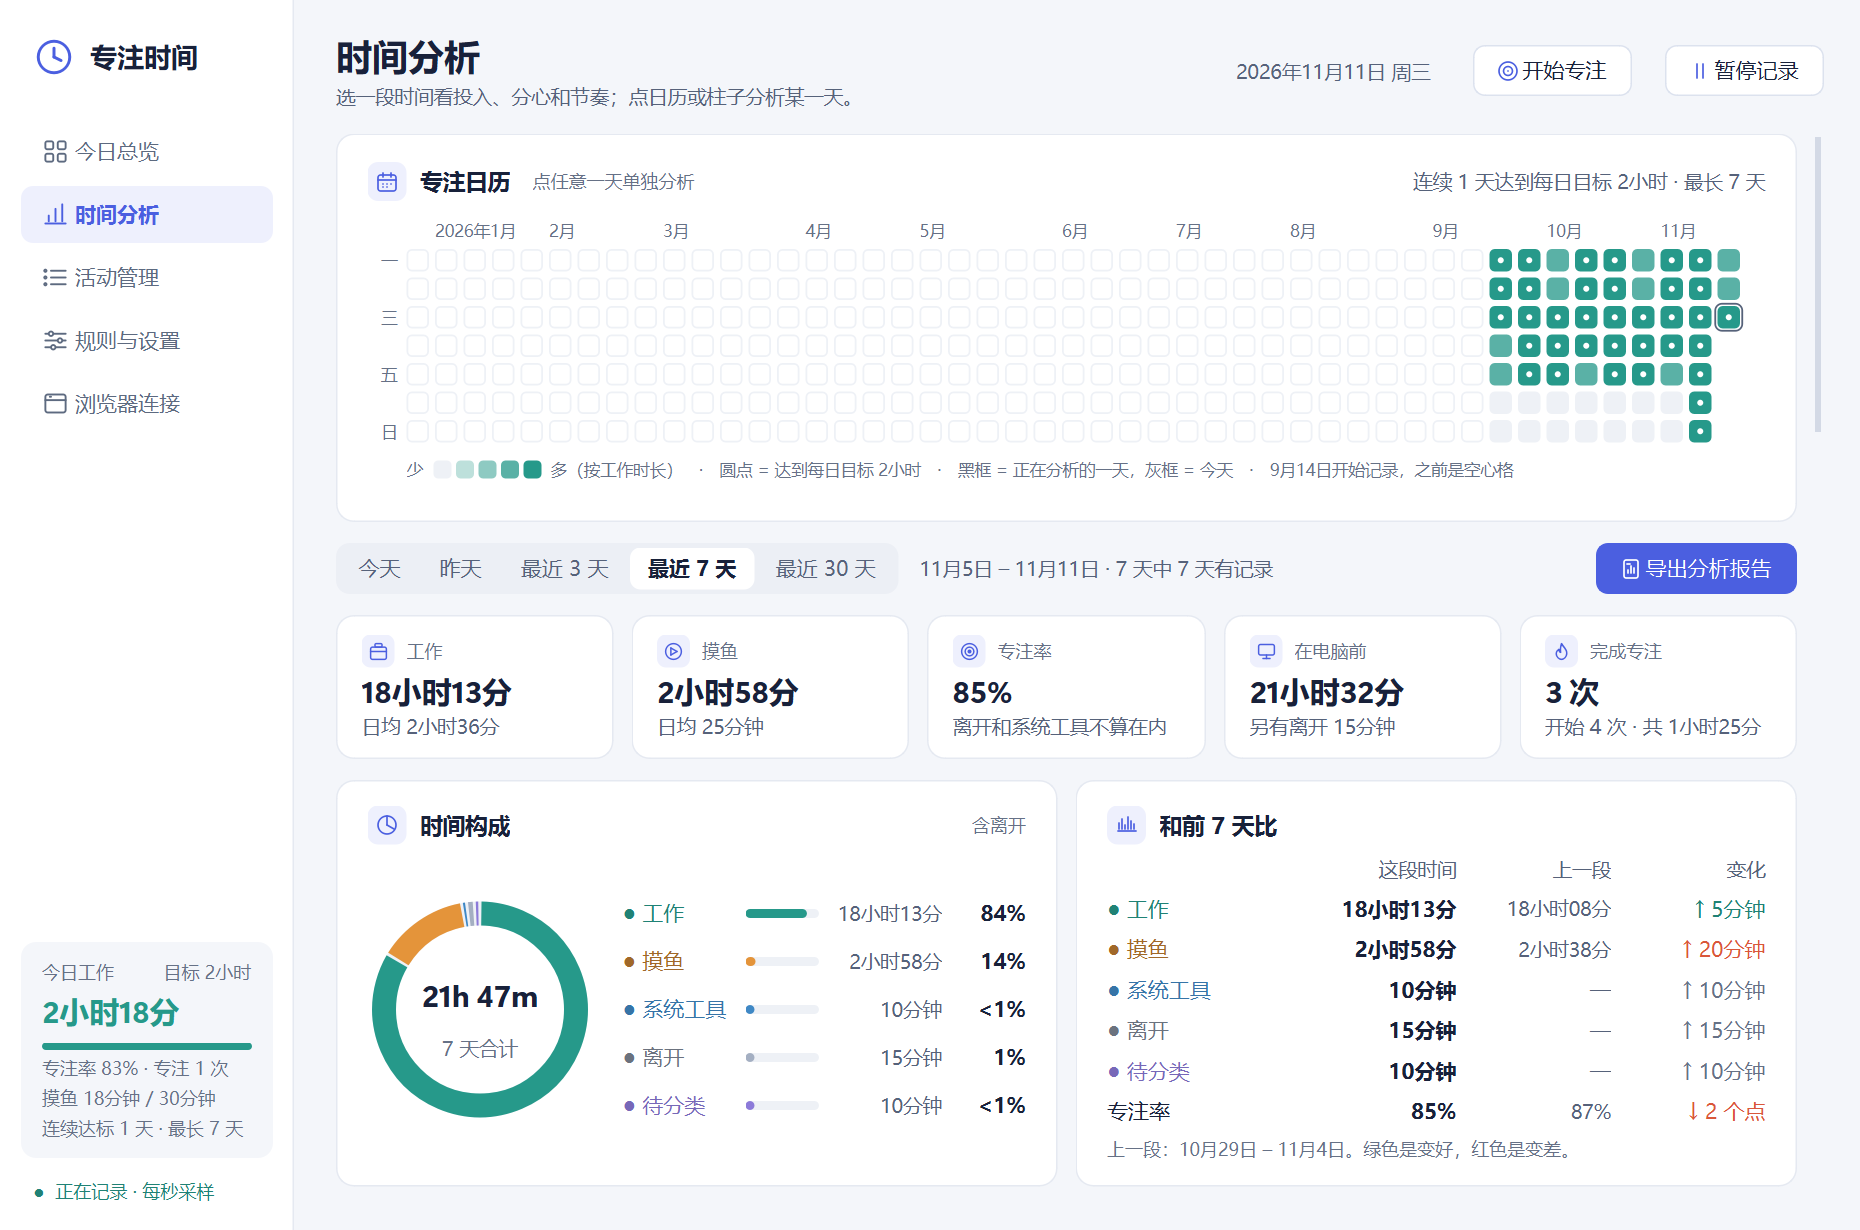
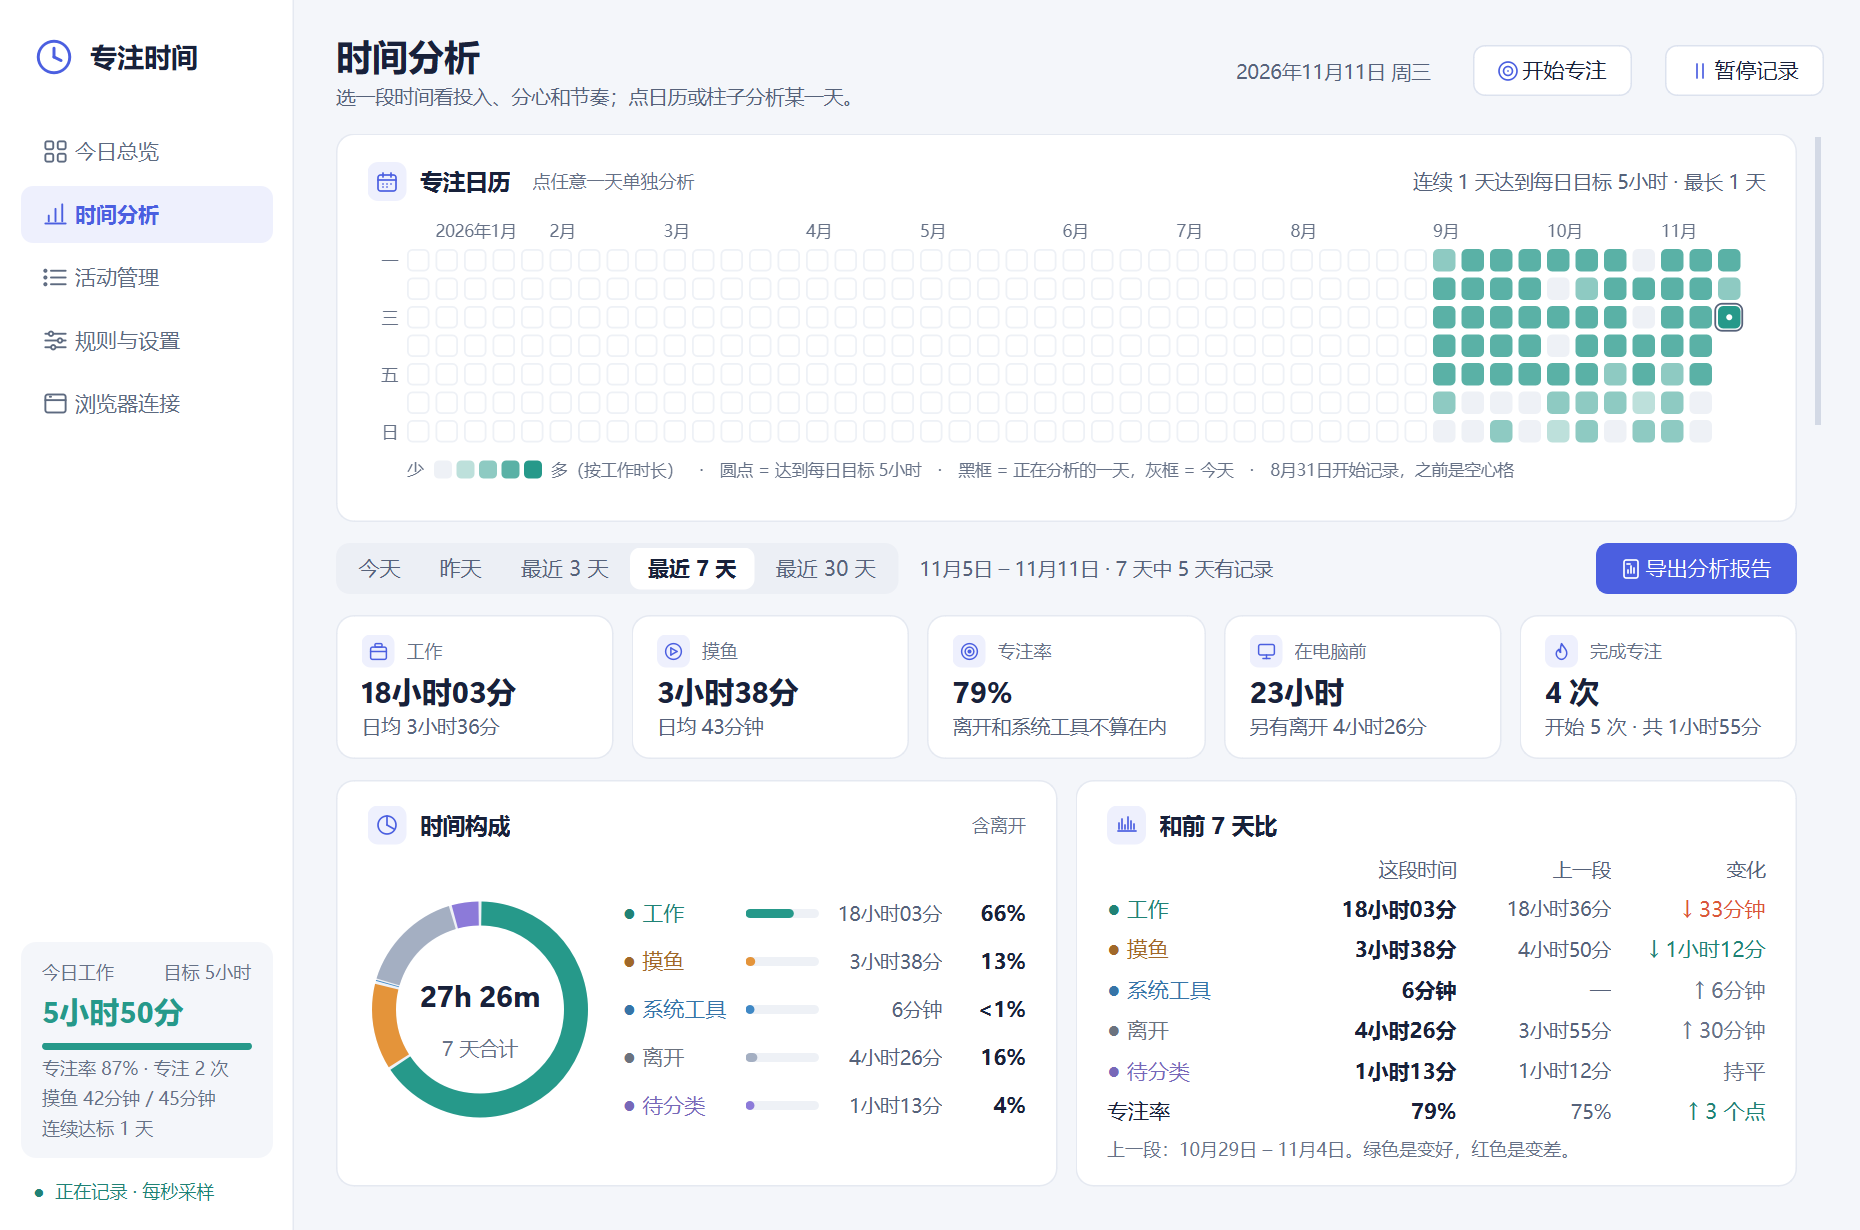
README 改为面向使用者的介绍，新增截图；设置页下拉框加宽
- README：下载与安装步骤、功能分节配图、隐私说明、常见问题，开发内容移到后面
- 截图换成示例数据的新界面（总览、提醒、时间分析、单日分析、专注、活动管理）
- “回来时补记”“每日总结”下拉框加宽，“离开 15 分钟以上”不再被截断

diff --git a/app/ui_qt.py b/app/ui_qt.py
@@ -699,13 +699,13 @@ class Shell(QMainWindow):
         self.reminder_spin = self.spin(15, 3600, c["reminder_seconds"], " 秒", 15, tip="停留在摸鱼网站或应用时，隔多久再提醒一次")
         self.sound_check = self.check("提醒时响一声", c["reminder_sound"])
         self.tray_hint_check = self.check("关闭窗口时提示仍在托盘记录", c["tray_hint"], "关闭主窗口后，在屏幕右下角弹一次系统通知")
-        self.summary_combo = QComboBox(); self.summary_combo.setFixedWidth(150)
+        self.summary_combo = QComboBox(); self.summary_combo.setFixedWidth(184)
         self.summary_combo.addItem("关闭", "off")
         for at in ("18:00", "20:00", "21:00", "22:00", "23:00"): self.summary_combo.addItem(f"每天 {at}", at)
         self.summary_combo.setCurrentIndex(max(0, self.summary_combo.findData(c["daily_summary"])))
         self.summary_combo.setToolTip("到点弹一次今天的小结：工作、摸鱼、目标完成情况和用得最多的程序")
         self.summary_combo.currentIndexChanged.connect(self.schedule_preferences)
-        self.return_combo = QComboBox(); self.return_combo.setFixedWidth(150)
+        self.return_combo = QComboBox(); self.return_combo.setFixedWidth(184)
         self.return_combo.addItem("不询问", 0)
         for minutes in (10, 15, 30, 60): self.return_combo.addItem(f"离开 {minutes} 分钟以上", minutes)
         self.return_combo.setCurrentIndex(max(0, self.return_combo.findData(c["return_prompt_minutes"])))

diff --git a/README.md b/README.md
@@ -1,29 +1,114 @@
+<div align="center">
+
 # 专注时间助手
 
-一个只在你自己电脑上运行的 Windows 计时工具：每秒看一眼你正在用的窗口，把时间分成**工作、摸鱼、系统工具、离开、待分类**，在你刷抖音、小红书、B站时温和地提醒一下，并帮你回看一天、一周是怎么过的。
+**电脑自动帮你记下：今天到底是在学习，还是在摸鱼。**
 
-![今日总览](docs/screenshots/overview.png)
+一个只在你自己电脑上运行的 Windows 小工具：每秒看一眼你正在用的窗口，把时间分成工作、摸鱼、系统工具、离开、待分类五类；刷抖音、小红书、B站太久时温柔地提醒一下；再帮你回看一天、一周是怎么过的。
 
-所有数据都留在本机，没有账号，不联网上传；不保存网址路径、页面标题、截图或按键。
+[![下载](https://img.shields.io/github/v/release/Toby-Qian/focus-time-assistant?label=%E4%B8%8B%E8%BD%BD&color=4B5FE0)](https://github.com/Toby-Qian/focus-time-assistant/releases/latest)
+![Windows 10 / 11](https://img.shields.io/badge/Windows-10%20%2F%2011-26998A)
+![数据只在本机](https://img.shields.io/badge/%E6%95%B0%E6%8D%AE-%E5%8F%AA%E5%9C%A8%E6%9C%AC%E6%9C%BA-E4943A)
+[![MIT](https://img.shields.io/badge/license-MIT-5A657D)](LICENSE)
 
-## 功能
+**[⬇ 下载最新版](https://github.com/Toby-Qian/focus-time-assistant/releases/latest)**　·　免费、开源、没有账号、不联网上传
 
-- **只计你正在操作的窗口**：后台程序、桌面、任务栏、最小化的窗口都不计时（需要时也可以给它们设规则）。键盘鼠标一段时间没动或锁屏就记为离开。
-- **今日总览**：此刻在用什么、五类时间、每小时节奏或分钟时间线、时间分布环形图、主要活动（带程序和网站图标）；占比可以切换含 / 不含离开时间（设置里或环形图右上角）。
-- **分类规则**：内置常用工作软件和摸鱼网站；任何程序、网站、系统界面都能改成任一分类；规则表可按分类筛选、单击改分类、设置单个程序 / 网站的每日上限。
-- **活动管理**：按日期、分类、关键字查看记录，批量改分类，可撤销；离开时间也能补记成工作（开会、看纸质资料）。
-- **显示名字可改**：常见网站显示为“抖音”“GitHub”等名字而不是域名；网站和应用都可以右键改成自己习惯的名字。
-- **摸鱼提醒**：停留在摸鱼网站或程序时在屏幕中央提醒，不抢键盘焦点；想继续可以点“继续摸鱼 30 分钟”，这段时间不再提醒，照常算摸鱼。
-- **专注**：写上任务名、选时长开始专注，有可拖动的悬浮计时，结束后自动休息，再提醒开始下一段。
-- **目标与习惯**：每日工作目标、摸鱼上限、连续达标天数、专注日历、休息提醒、每日总结（默认关闭）、回来时补记（离开太久回来时问一次）。
-- **时间分析**：今天 / 昨天 / 最近 3、7、30 天，或在专注日历上点任意一天单独分析；时间构成饼图、每日趋势、应用与网站排行、时段分布、工作节奏（最长连续工作、深度工作、切换频率、作息）、和上一段时间的对比，以及自动生成的要点；可导出 HTML 报告。
-- **托盘常驻**：关窗后在托盘继续记录，托盘图标颜色跟随当前分类；可定时暂停（15 / 30 / 60 分钟）。
-- **低占用**：收进托盘时约 0.1% 单核 CPU、约 10 MB 工作集；数据库每 10 秒批量写入。
-- 5 套主题（含深色），适配高分屏和多显示器缩放；支持键盘操作，尊重 Windows 的“动画效果”设置。
+<img src="docs/screenshots/overview.png" alt="今日总览" width="860">
 
-![时间分析](docs/screenshots/analysis.png)
+</div>
 
-## 运行
+## 适合谁
+
+- 想知道自己一天真正学习 / 工作了多久的学生、研究生、自由职业者
+- 一不留神就刷了一小时短视频，想有人在旁边提醒一句的人
+- 不想装要登录、会上传数据的时间管理软件的人
+
+## 能做什么
+
+### 1. 自动记录，不用手动打卡
+
+打开后它就在后台安静地记：**只算你正在操作的那个窗口**，后台开着的程序、桌面、最小化的窗口都不算；键盘鼠标一段时间没动、或者锁屏，就记为“离开”。
+
+- 常用的学习、办公软件（VS Code、Word、Zotero、Claude 等）默认算**工作**，抖音、B站、小红书默认算**摸鱼**
+- 任何程序、网站都能一键改成别的分类，以前记错的时间也能批量改回来，还能撤销
+- 网站显示成“抖音”“中国知网”“GitHub”这样的名字，网站和应用都能改成你自己习惯的叫法
+
+### 2. 刷太久会提醒你
+
+<img src="docs/screenshots/reminder.png" alt="摸鱼提醒" width="520">
+
+停留在摸鱼网站或程序时，屏幕中央会弹出提醒——不抢键盘、不锁屏。真想继续，点“继续摸鱼 30 分钟”，这段时间不再打扰，时间照样算摸鱼。还可以给单个网站设每日上限，比如“抖音每天最多 30 分钟”。
+
+### 3. 专注日历 + 复盘
+
+<img src="docs/screenshots/analysis.png" alt="时间分析" width="860">
+
+- **专注日历**：一整年一格一天，颜色越深那天工作越久，圆点表示达到了每日目标；点任意一天，整页就换成那一天的分析
+- **时间构成**：工作、摸鱼、离开各占多少；可以选择占比里算不算“离开”
+- **和上一段比**：今天 vs 昨天、这 7 天 vs 前 7 天，变好是绿色，变差是红色
+- **工作节奏**：最长连续工作多久、连续 25 分钟以上的深度工作有几段、每小时切换几次程序、一天几点开始几点结束
+- 每日趋势、应用与网站排行、一天中的时段分布，一键导出 HTML 报告
+
+<img src="docs/screenshots/analysis_day.png" alt="单日分析" width="860">
+
+### 4. 想专心的时候开一段专注
+
+<img src="docs/screenshots/focus.png" alt="专注计时" width="640">
+
+写上任务名、选时长就开始；桌面上有个可拖动的小悬浮计时，结束后自动休息，再提醒你开始下一段。专注记录会出现在分析页和导出的报告里。
+
+### 5. 其他
+
+- 关掉窗口后在托盘继续记录，托盘图标颜色跟着当前分类变；可以暂停 15 / 30 / 60 分钟
+- 每日工作目标、摸鱼上限、连续达标天数、休息提醒、每日总结、离开太久回来时问一句要不要补记
+- 5 套配色（含深色），适配高分屏；支持开机自动在托盘运行
+- 很省资源：收进托盘后约 0.1% CPU、十几 MB 内存
+
+## 下载和使用
+
+1. 打开 **[Releases 页面](https://github.com/Toby-Qian/focus-time-assistant/releases/latest)**，下载 `FocusTimeAssistant-…-win64.zip`
+2. 解压到任意文件夹（比如 `D:\专注时间助手`），双击里面的 **专注时间助手.exe**
+3. 开始用电脑就会自动记录；关闭窗口后它会留在右下角托盘里继续记
+
+> 第一次打开如果出现“Windows 已保护你的电脑”，点 **更多信息 → 仍要运行**。这是因为个人开发的程序没有购买代码签名证书，不是病毒；所有代码都在这个仓库里，可以自己检查。
+
+- 想开机自动运行：在“规则与设置”里勾选“开机启动”
+- 记录保存在解压文件夹里的 `data` 文件夹；换电脑时把它一起拷走就行
+- 不想用了：从托盘退出，删掉整个文件夹即可，不会在系统里留下别的东西（开过“开机启动”的话先把它关掉）
+
+## 浏览器扩展（可选，推荐）
+
+不装扩展时，程序按窗口标题识别抖音、小红书、B站等常见网站；装上后按真实网址的域名识别，更准确，还能显示网站图标。支持 Chrome、Edge 等 Chromium 内核浏览器。
+
+1. 打开程序，进入侧栏“浏览器连接”，复制本机连接码
+2. Chrome 打开 `chrome://extensions`（Edge 打开 `edge://extensions`），开启“开发者模式”
+3. 点“加载已解压的扩展程序”，选择程序文件夹里的 `browser_extension` 文件夹
+4. 在弹出的设置页粘贴连接码并保存
+
+扩展只把当前标签页的域名、用于核对的标题和浏览器已缓存的网站图标发给本机上的这个程序（`127.0.0.1`），需要连接码才能通信，不连接任何外部服务器。
+
+## 隐私
+
+- 所有数据只存在你自己的电脑上，没有账号，不联网上传
+- 只记录：日期和分钟、分类、程序文件名、网站域名、累计时长
+- **不保存**网址路径、搜索词、页面标题、截图、聊天内容或按键
+- 想清空历史：退出程序后删掉 `data` 文件夹里的 `activity.sqlite3`
+
+## 常见问题
+
+**会不会很耗电、拖慢电脑？**
+不会。它每秒只读一次前台窗口的名字，收进托盘后大约占 0.1% 的 CPU 和十几 MB 内存。
+
+**看视频、读纸质书的时候会被算成“离开”吗？**
+键盘鼠标长时间不动会算离开。可以在设置里把“无操作多久算离开”调长；离开太久回来时，它也会问你要不要把这段补记成工作（比如开会、看书）。
+
+**我的某个软件被分错类了怎么办？**
+在“今日总览”点“调整分类”，或在“活动管理”里右键那一行，选成你想要的分类，以后都会按新规则记录。
+
+**支持 Mac 吗？**
+暂时只支持 Windows 10 / 11。
+
+## 从源码运行
 
 需要 Windows 10 / 11 和 Python 3.12。
 
@@ -33,46 +118,21 @@ python -m venv .venv
 .\.venv\Scripts\python.exe app\main.py
 ```
 
-之后也可以双击 `启动.cmd` 启动（不会出现命令行窗口）。记录、规则和设置保存在项目里的 `data/` 文件夹。
-
-打包成不需要 Python 的 EXE：
+之后也可以双击 `启动.cmd` 启动（不会出现命令行窗口）。打包成 EXE：
 
 ```powershell
 .\.venv\Scripts\python.exe -m pip install pyinstaller
 .\.venv\Scripts\python.exe build_exe.py
 ```
 
-生成的程序在 `程序/专注时间助手.exe`，和源码共用同一个 `data/`。
-
-## 浏览器扩展（可选，推荐）
-
-不装扩展时，程序按窗口标题识别抖音、小红书、B站等常见网站；装上后按真实域名识别，更准确，还能显示网站图标。
-
-1. 打开程序，进入侧栏“浏览器连接”，复制本机连接码。
-2. Chrome 打开 `chrome://extensions`（Edge 打开 `edge://extensions`），开启“开发者模式”。
-3. 点“加载已解压的扩展程序”，选择本项目的 `browser_extension` 文件夹。
-4. 在弹出的设置页粘贴连接码并保存。
-
-扩展只把当前活动标签页的域名、用于核对的标题和浏览器已缓存的网站图标发给 `127.0.0.1` 上的本程序，需要连接码才能通信，不连接任何外部服务器。支持 Chrome、Edge 等 Chromium 内核浏览器（Manifest V3），Firefox 暂不支持。
-
-## 数据与隐私
-
-- 数据库只记录：日期和分钟、分类、程序文件名、网站域名、累计秒数，以及撤销修正所需的信息。
-- 不保存网址路径、搜索词、页面标题、截图、正文或按键。
-- 程序和网站图标缓存在 `data/` 里，只在本机使用。
-- 设置里可以一键备份数据库；想清空历史，退出程序后移走 `data/activity.sqlite3` 即可。
-- `data/` 里有扩展连接码，请不要把它上传或分享。
-
-## 开发
+源码在 `app/`：`windows.py` 读取前台窗口和空闲时间，`core.py` 负责分类与 SQLite 记录，`desktop.py` 是采样和界面逻辑，`ui_qt.py` / `charts.py` / `theme.py` 是 Qt 界面、图表和主题，`insights.py` 生成分析要点，`bridge.py` 是给浏览器扩展用的本机接口。测试：
 
 ```powershell
 .\.venv\Scripts\python.exe -m unittest discover -s tests
 .\.venv\Scripts\python.exe tests\check_qt_desktop.py     # 完整界面检查，约 1–2 分钟，会短暂显示窗口
 ```
 
-源码在 `app/`：`windows.py` 读取前台窗口和空闲时间，`core.py` 负责分类与 SQLite 记录，`desktop.py` 是采样和界面逻辑，`ui_qt.py` / `charts.py` / `theme.py` 是 Qt 界面、图表和主题，`bridge.py` 是给浏览器扩展用的本机接口。
-
-这是一个对行为的估计工具：它只能看到你在用哪个窗口，不能判断你是否真的在专注，分类可以随时手动修正。
+这是一个对行为的估计工具：它只能看到你在用哪个窗口，不能判断你是否真的在专注，分类可以随时手动修正。欢迎提 Issue 和建议。
 
 ## 许可证
 
